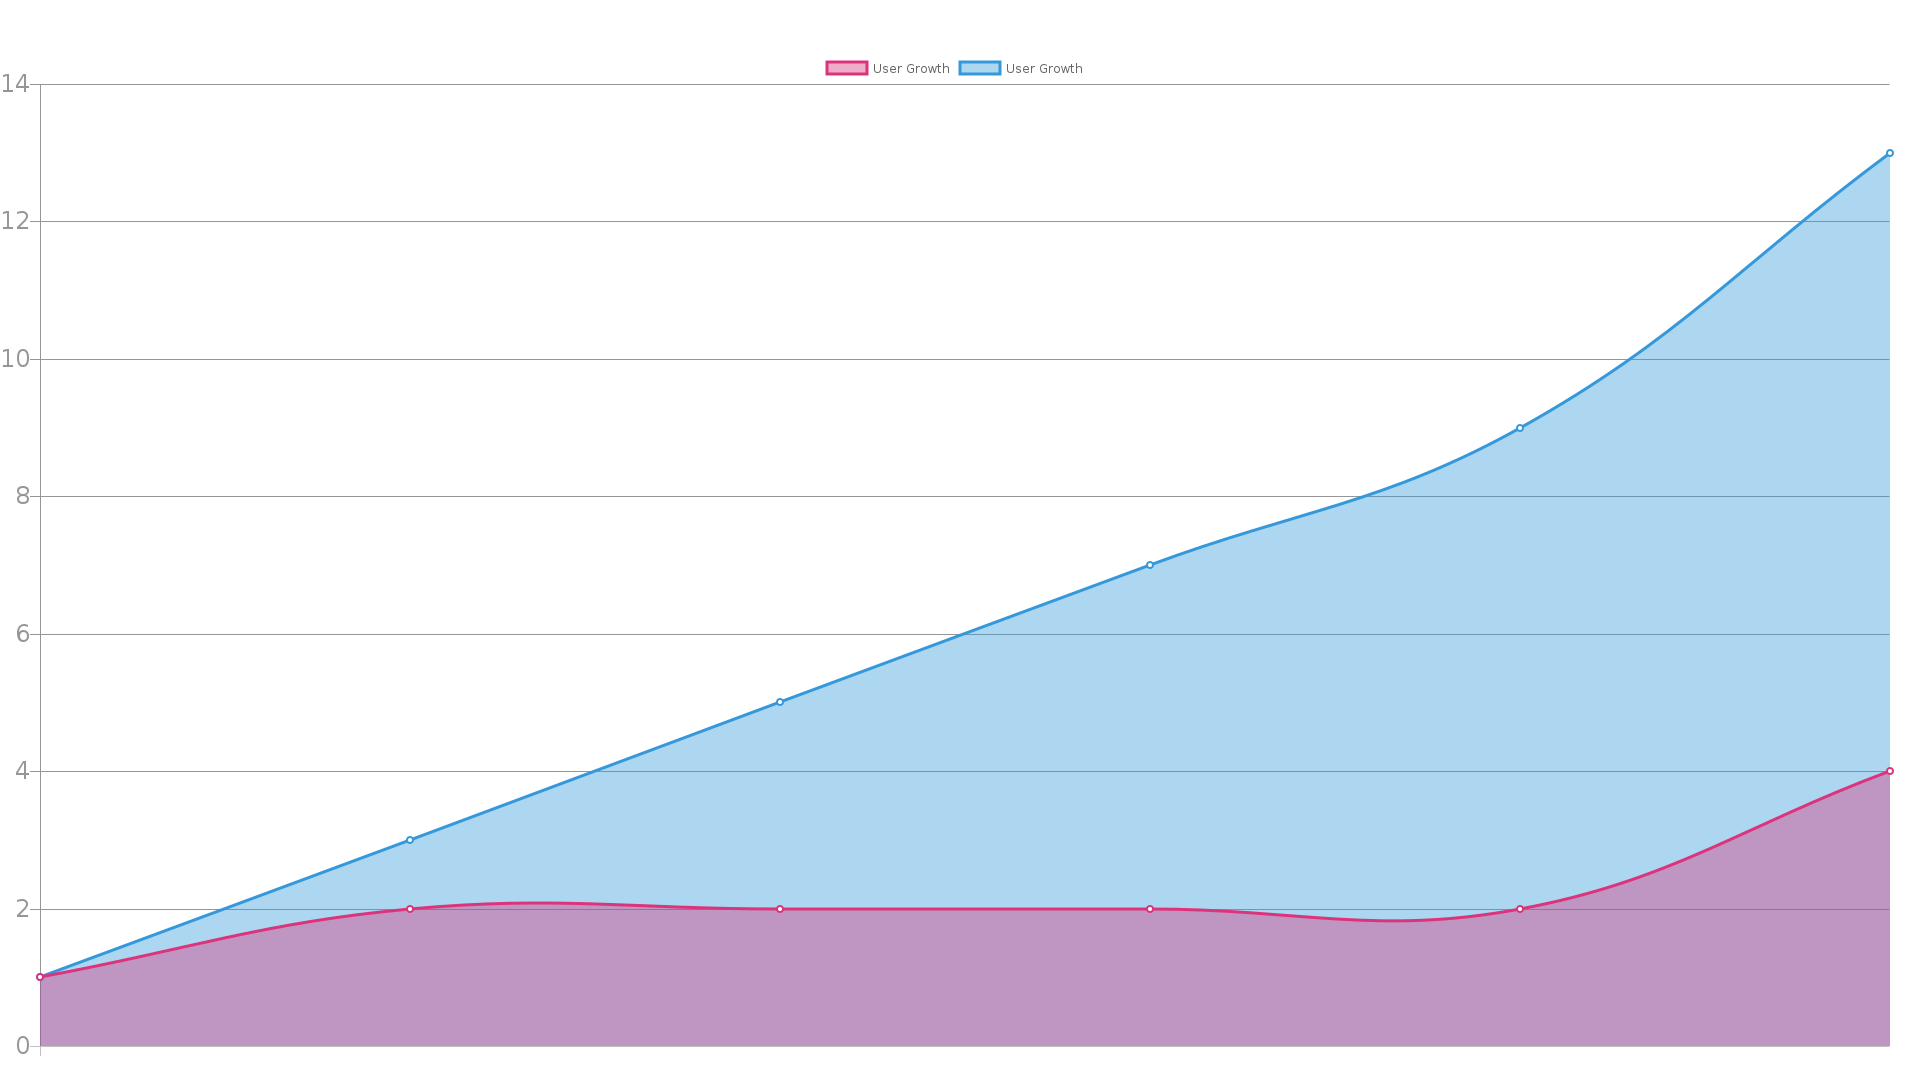
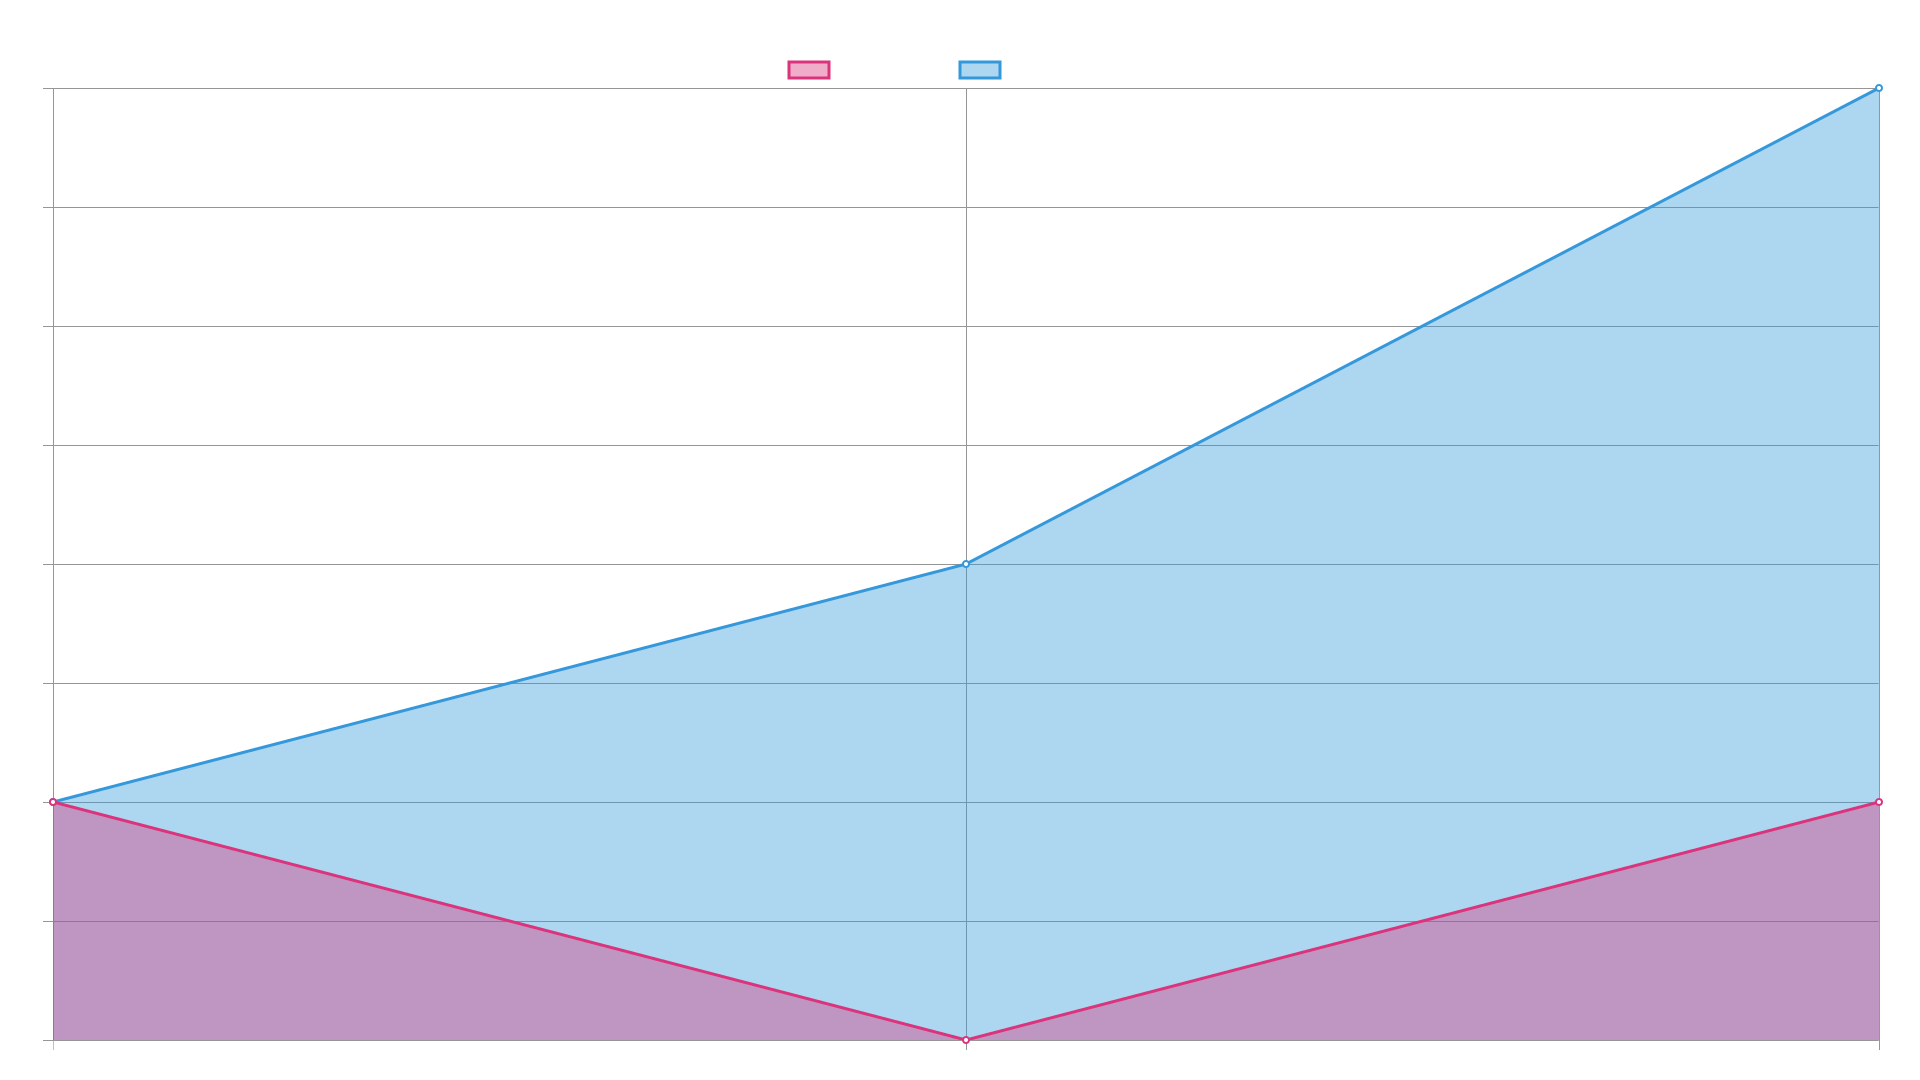
UserStatus command

diff --git a/src/commands/info/userstatus.js b/src/commands/info/userstatus.js
@@ -1,0 +1,62 @@
+exports.data = {
+  'name': 'UserStatus',
+  'aliases': ['us'],
+  'desc': 'Show the status of your users, in a fancy pie chart!',
+  'usage': 'userstatus'
+}
+
+const chartjs = require('chartjs-node')
+
+exports.run = function(msg, data) {
+  return new Promise((resolve, reject) => {
+    msg.channel.sendMessage('Generating Image, this might take a while...').then((Msg) => {
+      let graphObject = {}
+      let graphData = {
+        'labels': [],
+        'datasets': [
+          {
+            'data': [],
+            'backgroundColor': [],
+            'borderWidth': [5, 5, 5]
+          }
+        ]
+      }
+      for (let member of msg.guild.members.array()) {
+        if (member.presence.status != 'offline') {
+          if (graphObject[member.presence.status]) {
+            graphObject[member.presence.status].count++
+          } else {
+            graphObject[member.presence.status] = {'count': 1, 'color': ''}
+            if (member.presence.status == 'online') {graphObject[member.presence.status].color = '#62ff84'}
+            else if (member.presence.status == 'dnd') {graphObject[member.presence.status].color = '#FF6384'}
+            else {graphObject[member.presence.status].color = '#fff161'}
+          }
+        }
+      }
+
+      for (let status in graphObject) {
+        graphData.labels.push(status)
+        graphData.datasets[0].data.push(graphObject[status].count)
+        graphData.datasets[0].backgroundColor.push(graphObject[status].color)
+      }
+
+      let chart = new chartjs(1024, 1024)
+      chart.drawChart({
+        'type': 'pie',
+        'data': graphData,
+        'options': {}
+      }).then(() => {
+        return chart.getImageBuffer('image/png')
+      }).then((buffer) => {
+        return chart.getImageStream('image/png')
+      }).then((streamResult) => {
+        return chart.writeImageToFile('image/png', './src/cache/userstatus.png')
+      }).then(() => {
+        Msg.delete()
+        msg.channel.send({file: './src/cache/userstatus.png'}).catch((err) => {reject(err)})
+      }).catch((err) => {
+        reject(err)
+      })
+    }).catch((err) => {reject(err)})
+  })
+}

diff --git a/src/commands/info/usergrowth.js b/src/commands/info/usergrowth.js
@@ -18,7 +18,7 @@ exports.run = function(msg, data) {
           {
             label: 'User Growth',
             fill: true,
-            lineTenstion: 0.1,
+            lineTension: 0,
             backgroundColor: 'rgba(219, 52, 124, 0.4)',
             borderColor: 'rgb(219, 52, 124)',
             borderCapStyle: 'butt',
@@ -37,7 +37,7 @@ exports.run = function(msg, data) {
           }, {
             label: 'User Growth',
             fill: true,
-            lineTenstion: 0.1,
+            lineTension: 0,
             backgroundColor: 'rgba(52, 152, 219, 0.4)',
             borderColor: 'rgb(52, 152, 219)',
             borderCapStyle: 'butt',
@@ -88,6 +88,7 @@ exports.run = function(msg, data) {
         'type': 'line',
         'data': graphData,
         'options': {
+          'scaleFontColor': 'white',
           'title': {
             'display': true,
             'fontSize': 32,
@@ -97,23 +98,23 @@ exports.run = function(msg, data) {
           'scales': {
             'xAxes': [{
               'ticks': {
-                'fontSize': 16,
+                'fontSize': 20,
                 'fontColor': 'white'
               },
               'gridLines': {
                 'display': true,
-                'color': '#FFFFFF'
-              },
+                'color': 'rgb(150, 150, 150)'
+              }
             }],
             'yAxes': [{
               'ticks': {
                 'fontSize': 24,
-                'fontColor': 'rgb(150, 150, 150)'
+                'fontColor': 'white'
               },
               'gridLines': {
                 'display': true,
                 'color': 'rgb(150, 150, 150)'
-              },
+              }
             }]
           }
         }
@@ -125,7 +126,7 @@ exports.run = function(msg, data) {
         return chart.writeImageToFile('image/png', './src/cache/usergrowth.png')
       }).then(() => {
         Msg.delete()
-        Msg.channel.send({files: ['./src/cache/usergrowth.png']}).catch((err) => {reject(err)})
+        msg.channel.send({file: './src/cache/usergrowth.png'}).catch((err) => {reject(err)})
       }).catch((err) => {
         reject(err)
       })

diff --git a/src/commands/general/ping.js b/src/commands/general/ping.js
@@ -11,7 +11,7 @@ exports.run = function(msg, data) {
     let date = new Date()
     msg.channel.send('...').then((Msg) => {
       let responseObject = ['Pong! ', 'Pang! ', 'Bang! ', 'Rate Limited! ']
-      Msg.edit(responseObject.sample() + '(' + (new Date() - date) + 'ms)').catch((err) => {reject(err)})
+      Msg.edit(responseObject[Math.floor(Math.random() * responseObject.length)] + '(' + (new Date() - date) + 'ms)').catch((err) => {reject(err)})
     }).catch((err) => {reject(err)})
   })
 }

diff --git a/src/commands/unlisted/kys.js b/src/commands/unlisted/kys.js
@@ -1,0 +1,13 @@
+exports.data = {
+  'name': 'kys',
+  'aliases': ['suicide'],
+  'desc': 'Kill Yourself',
+  'usage': 'kys',
+  'dm': true
+}
+
+exports.run = function(msg, data) {
+  return new Promise((resolve, reject) => {
+    msg.channel.send('Wy so rude ;-;').catch((err) => {reject(err)})
+  })
+}

diff --git a/src/main.js b/src/main.js
@@ -24,11 +24,6 @@ handlerSetup.setup().then((handlers) => {
   console.log(err)
 })
 
-
-Array.prototype.sample = function() {
-  return this[Math.floor(Math.random() * this.length)]
-}
-
 //Load Commands
 function loadCommands() {
   handlers.command.load().then((commands) => {
